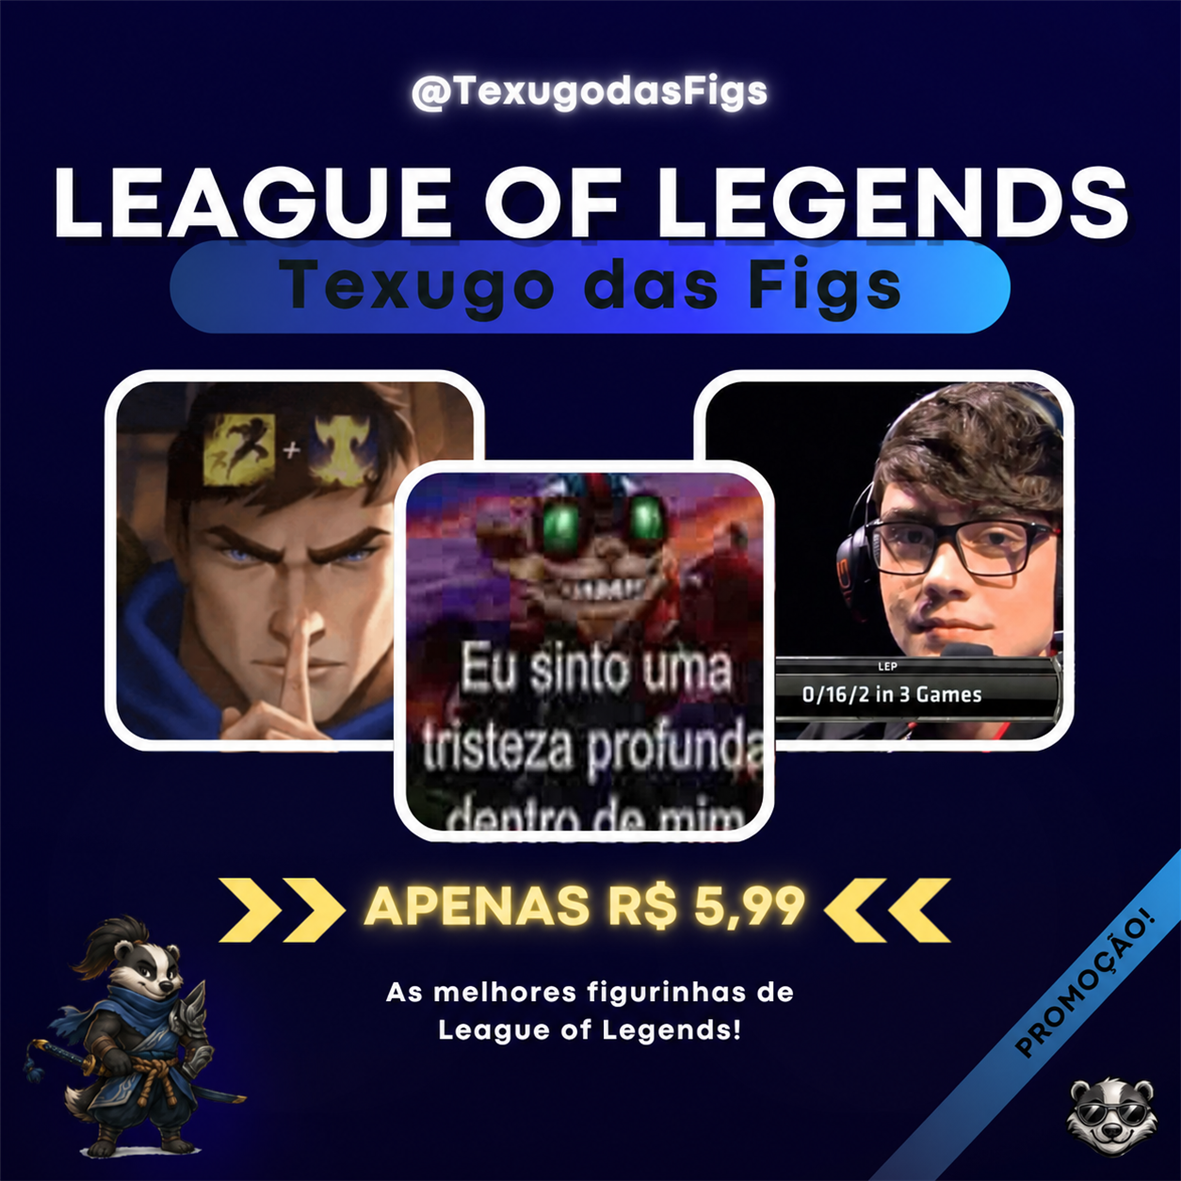
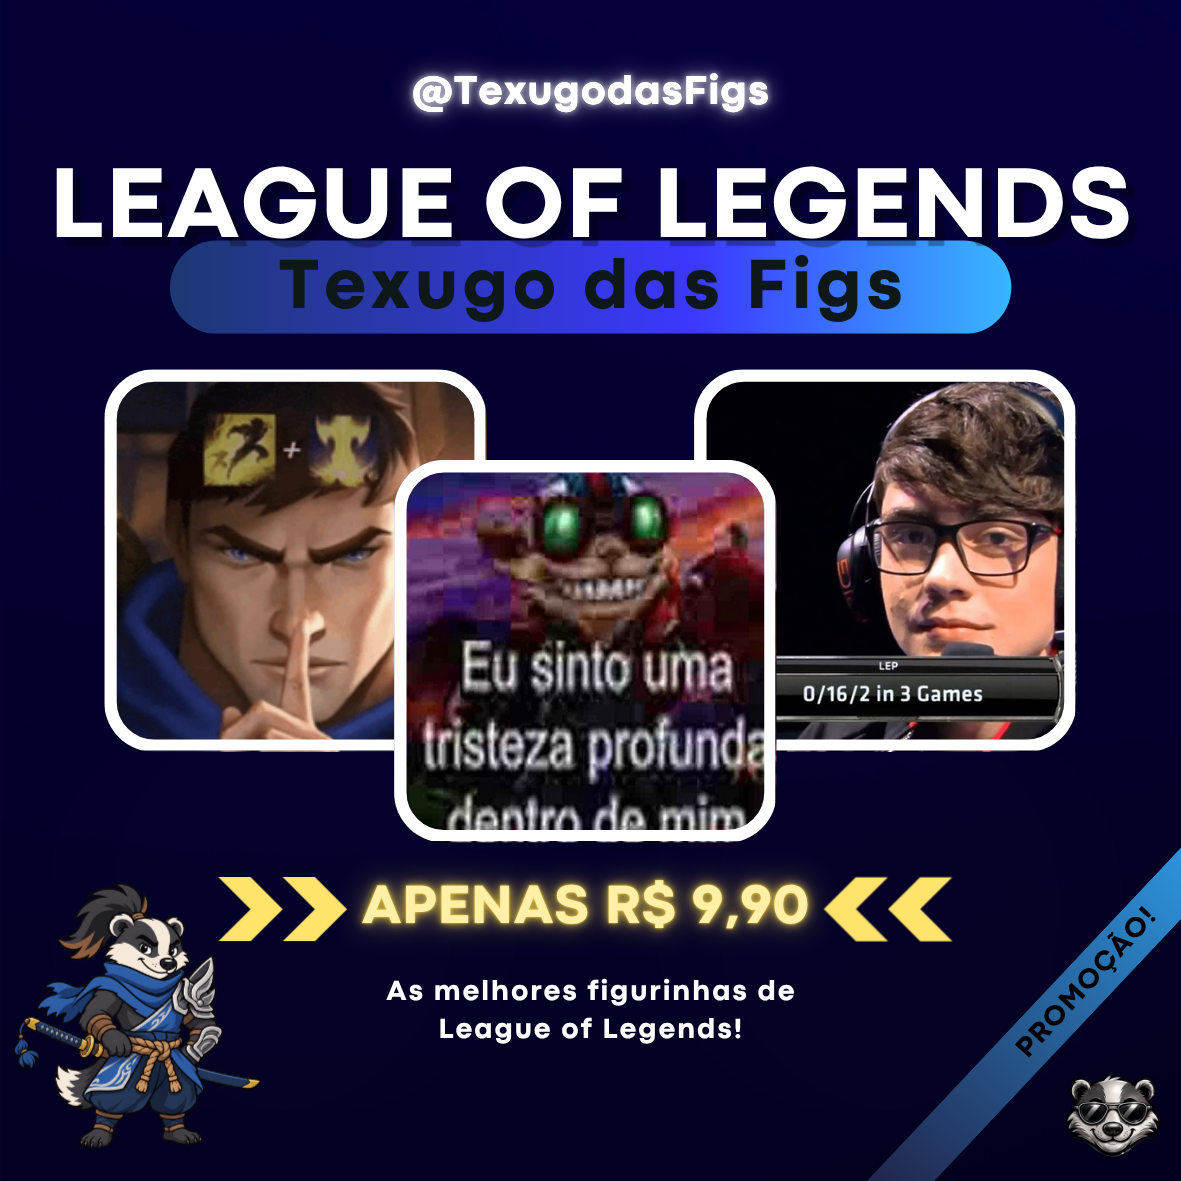
Atualiza capas, precos e quantidades dos packs

diff --git a/index.html b/index.html
@@ -30,7 +30,7 @@
         <h1>Figurinhas que <em>falam por você.</em></h1>
         <p>Respostas, memes e reações para todos os momentos. Escolha seu pack, pague com segurança e receba as figurinhas diretamente no seu WhatsApp.</p>
         <div class="hero-actions"><a class="button primary" href="#packs">Escolher meu pack</a><a class="button ghost" href="#previas">Ver prévias</a><a class="button whatsapp-quick" data-whatsapp-receipt href="#">Já comprei — receber no WhatsApp</a></div>
-        <div class="hero-stats"><div><b>+640</b><span>figurinhas no acervo</span></div><div><b>12</b><span>packs temáticos</span></div><div><b>1x</b><span>pagamento único</span></div></div>
+        <div class="hero-stats"><div><b>+700</b><span>figurinhas no acervo</span></div><div><b>12</b><span>packs temáticos</span></div><div><b>1x</b><span>pagamento único</span></div></div>
       </div>
       <div class="hero-art"><div class="glow"></div><img class="brand-logo-main" src="assets/logo-principal.jpeg" alt="Logo Texugo das Figs"></div>
     </section>
@@ -79,7 +79,7 @@
 
     <section class="premium-section" id="premium">
       <div class="premium-image"><img src="assets/packs/03-premium.png" alt="Capa do Premium Pack"><span>MAIS VENDIDO</span></div>
-      <div class="premium-copy"><span class="eyebrow gold-text">O MELHOR CUSTO-BENEFÍCIO</span><h2>Escolha todos os packs<br>que quiser.</h2><p>Pague uma única vez e tenha direito a solicitar todos os packs que quiser da loja — dos favoritos aos temas mais nichados. Depois, abra a mensagem pronta do Premium no WhatsApp para receber sua coleção.</p><div class="premium-metric"><b>12</b><span>packs disponíveis para você escolher</span></div><ul><li>Direito a todos os packs que quiser</li><li>Entrega pelo WhatsApp</li><li>Acesso vitalício</li><li>Pagamento único</li></ul><div class="premium-buy"><strong>R$ 11,99</strong><div class="premium-actions"><button class="button gold" data-buy="premium">Quero o Premium</button><a class="whatsapp-text-link" data-whatsapp-premium href="#">Já paguei — receber no WhatsApp ↗</a></div></div></div>
+      <div class="premium-copy"><span class="eyebrow gold-text">O MELHOR CUSTO-BENEFÍCIO</span><h2>Escolha todos os packs<br>que quiser.</h2><p>Pague uma única vez e tenha direito a solicitar todos os packs que quiser da loja — dos favoritos aos temas mais nichados. Depois, abra a mensagem pronta do Premium no WhatsApp para receber sua coleção.</p><div class="premium-metric"><b>+700</b><span>figurinhas reunidas no acervo completo</span></div><ul><li>Direito a todos os packs que quiser</li><li>Entrega pelo WhatsApp</li><li>Acesso vitalício</li><li>Pagamento único</li></ul><div class="premium-buy"><strong>R$ 19,90</strong><div class="premium-actions"><button class="button gold" data-buy="premium">Quero o Premium</button><a class="whatsapp-text-link" data-whatsapp-premium href="#">Já paguei — receber no WhatsApp ↗</a></div></div></div>
     </section>
 
     <section class="custom-banner" id="personalizadas">

diff --git a/data.js b/data.js
@@ -2,6 +2,7 @@
 // Os preços vigentes ficam centralizados no bloco currentPrices ao final.
 // A ordem abaixo foi pensada para separar visualmente packs de cores parecidas.
 window.STORE = {
+  campaign: "principal",
   socials: {
     email: "mailto:texugodasfigs@gmail.com",
     instagram: "https://www.instagram.com/texugodasfigs/",
@@ -24,27 +25,45 @@ window.STORE = {
   ]
 };
 
-// Preços exibidos na loja. Gym e Eleições mantêm seus valores promocionais próprios.
+// Preços e quantidades exibidos na loja.
 const currentPrices = {
-  premium: 11.99,
-  respostas: 5.99,
-  safadezas: 5.99,
-  trabalho: 5.99,
-  eleicoes: 4.99,
-  kpop: 5.99,
-  futebol: 5.99,
-  "divas-pop": 5.99,
-  gym: 2.50,
-  anime: 5.99,
-  cantadas: 5.99,
-  "league-of-legends": 5.99
+  premium: 19.90,
+  respostas: 9.90,
+  safadezas: 9.90,
+  trabalho: 9.90,
+  eleicoes: 9.90,
+  kpop: 9.90,
+  futebol: 9.90,
+  "divas-pop": 9.90,
+  gym: 9.90,
+  anime: 9.90,
+  cantadas: 9.90,
+  "league-of-legends": 9.90
+};
+
+const currentCounts = {
+  premium: "+ de 700",
+  respostas: "+ de 100",
+  safadezas: "+ de 75",
+  trabalho: "+ de 60",
+  eleicoes: "+ de 60",
+  kpop: "+ de 60",
+  futebol: "+ de 60",
+  "divas-pop": "+ de 60",
+  gym: "+ de 40",
+  anime: "+ de 60",
+  cantadas: "+ de 60",
+  "league-of-legends": "+ de 60"
 };
 
 window.STORE.packs.forEach(pack => {
   pack.price = currentPrices[pack.id];
+  pack.count = currentCounts[pack.id];
   if (pack.id === "premium") {
-    pack.count = "Todos os packs";
     pack.description = "Um único pagamento que dá direito a escolher todos os packs que quiser da loja — inclusive os temas mais nichados.";
     pack.longDescription = "Com o Premium Pack, você não precisa escolher apenas um tema: pelo valor único do Premium, você tem direito a solicitar todos os packs que quiser disponíveis no site. Depois do pagamento, use o botão de atendimento para abrir a conversa no WhatsApp. Você monta sua coleção com humor, reações, futebol, anime, trabalho, fandoms e outros nichos sem pagar separadamente por cada pack.";
   }
 });
+
+// Total real após Respostas passar a 107 e Safadezas a 78.
+window.STORE.stickerTotal = 705;

diff --git a/styles.css b/styles.css
@@ -44,3 +44,17 @@ body.purchase-open{overflow:hidden}
 @media(max-width:750px){.step-grid{grid-template-columns:1fr}}
 @media(max-width:750px){.purchase-info-action{align-items:stretch;flex-direction:column;text-align:center}.purchase-info-action .button{width:100%}}
 @media(max-width:650px){.purchase-flow{padding:10px}.purchase-dialog{border-radius:20px;padding:24px 18px}.purchase-dialog-actions{grid-template-columns:1fr}.purchase-selected{align-items:flex-start;flex-direction:column}}
+
+/* As capas novas são quadradas: preserve toda a arte e mantenha o mesmo enquadramento em cada uso. */
+body{overflow-x:hidden}
+.pack-cover{aspect-ratio:1;background:#050907}
+.pack-cover img{object-fit:contain;object-position:center}
+.detail-cover{min-height:0;aspect-ratio:1;align-self:start;background:#050907}
+.detail-cover img{object-fit:contain;object-position:center}
+.premium-image{aspect-ratio:1}
+.premium-image img{width:100%;height:100%;object-fit:contain;object-position:center}
+.cart-item img{object-fit:contain;background:#050907}
+
+/* A quantidade é uma informação principal de compra, não um detalhe secundário. */
+.pack-meta>b{padding:7px 10px;font:900 12px Archivo;letter-spacing:-.01em;background:color-mix(in srgb,var(--accent) 10%,#050907)}
+.detail-benefits span:last-child{padding:9px 11px;border:1px solid var(--accent);border-radius:9px;color:var(--accent);font-size:13px;background:color-mix(in srgb,var(--accent) 10%,transparent)}

diff --git a/app.js b/app.js
@@ -7,7 +7,6 @@ window.addEventListener('pageshow',resetPageToTop,{once:true});
 const store=window.STORE;
 const packOrder=['premium','respostas','safadezas','anime','eleicoes','kpop','league-of-legends','divas-pop','gym','futebol','cantadas','trabalho'];
 store.packs.sort((a,b)=>packOrder.indexOf(a.id)-packOrder.indexOf(b.id));
-store.packs.forEach(pack=>{pack.count=pack.id==='premium'?'Todos os packs':pack.id==='gym'?'+ de 40':'+ de 60'});
 const packs=store.packs;
 const badges={premium:'Acervo completo',respostas:'Mais vendido',safadezas:'Ousado',trabalho:'Popular agora',eleicoes:'Em alta',kpop:'Favorito',futebol:'Paixão nacional','divas-pop':'Icônico',gym:'Oferta',anime:'Otaku','league-of-legends':'Gamer',cantadas:'Para o crush'};
 const headlines={

diff --git a/PRE-PUBLICACAO.md b/PRE-PUBLICACAO.md
@@ -1,0 +1,18 @@
+# Preparação para publicação
+
+Esta pasta é a versão principal do site, preparada para o endereço:
+
+`https://texugodasfigs.github.io/texugo-das-figs/`
+
+## Estado atual
+
+- Capas novas aplicadas aos 12 packs.
+- Packs avulsos exibidos por R$ 9,90.
+- Premium exibido por R$ 19,90 e com mais de 700 figurinhas.
+- Respostas exibido com mais de 100 figurinhas (107 no acervo).
+- Safadezas exibido com mais de 75 figurinhas (78 no acervo).
+- Capas configuradas para aparecer inteiras no catálogo, nos detalhes, no Premium e no carrinho.
+
+## Única pendência antes de publicar
+
+Substituir em `data.js` os 12 endereços do campo `payment` pelos links definitivos do Mercado Pago desta versão. Não publicar antes dessa troca.
